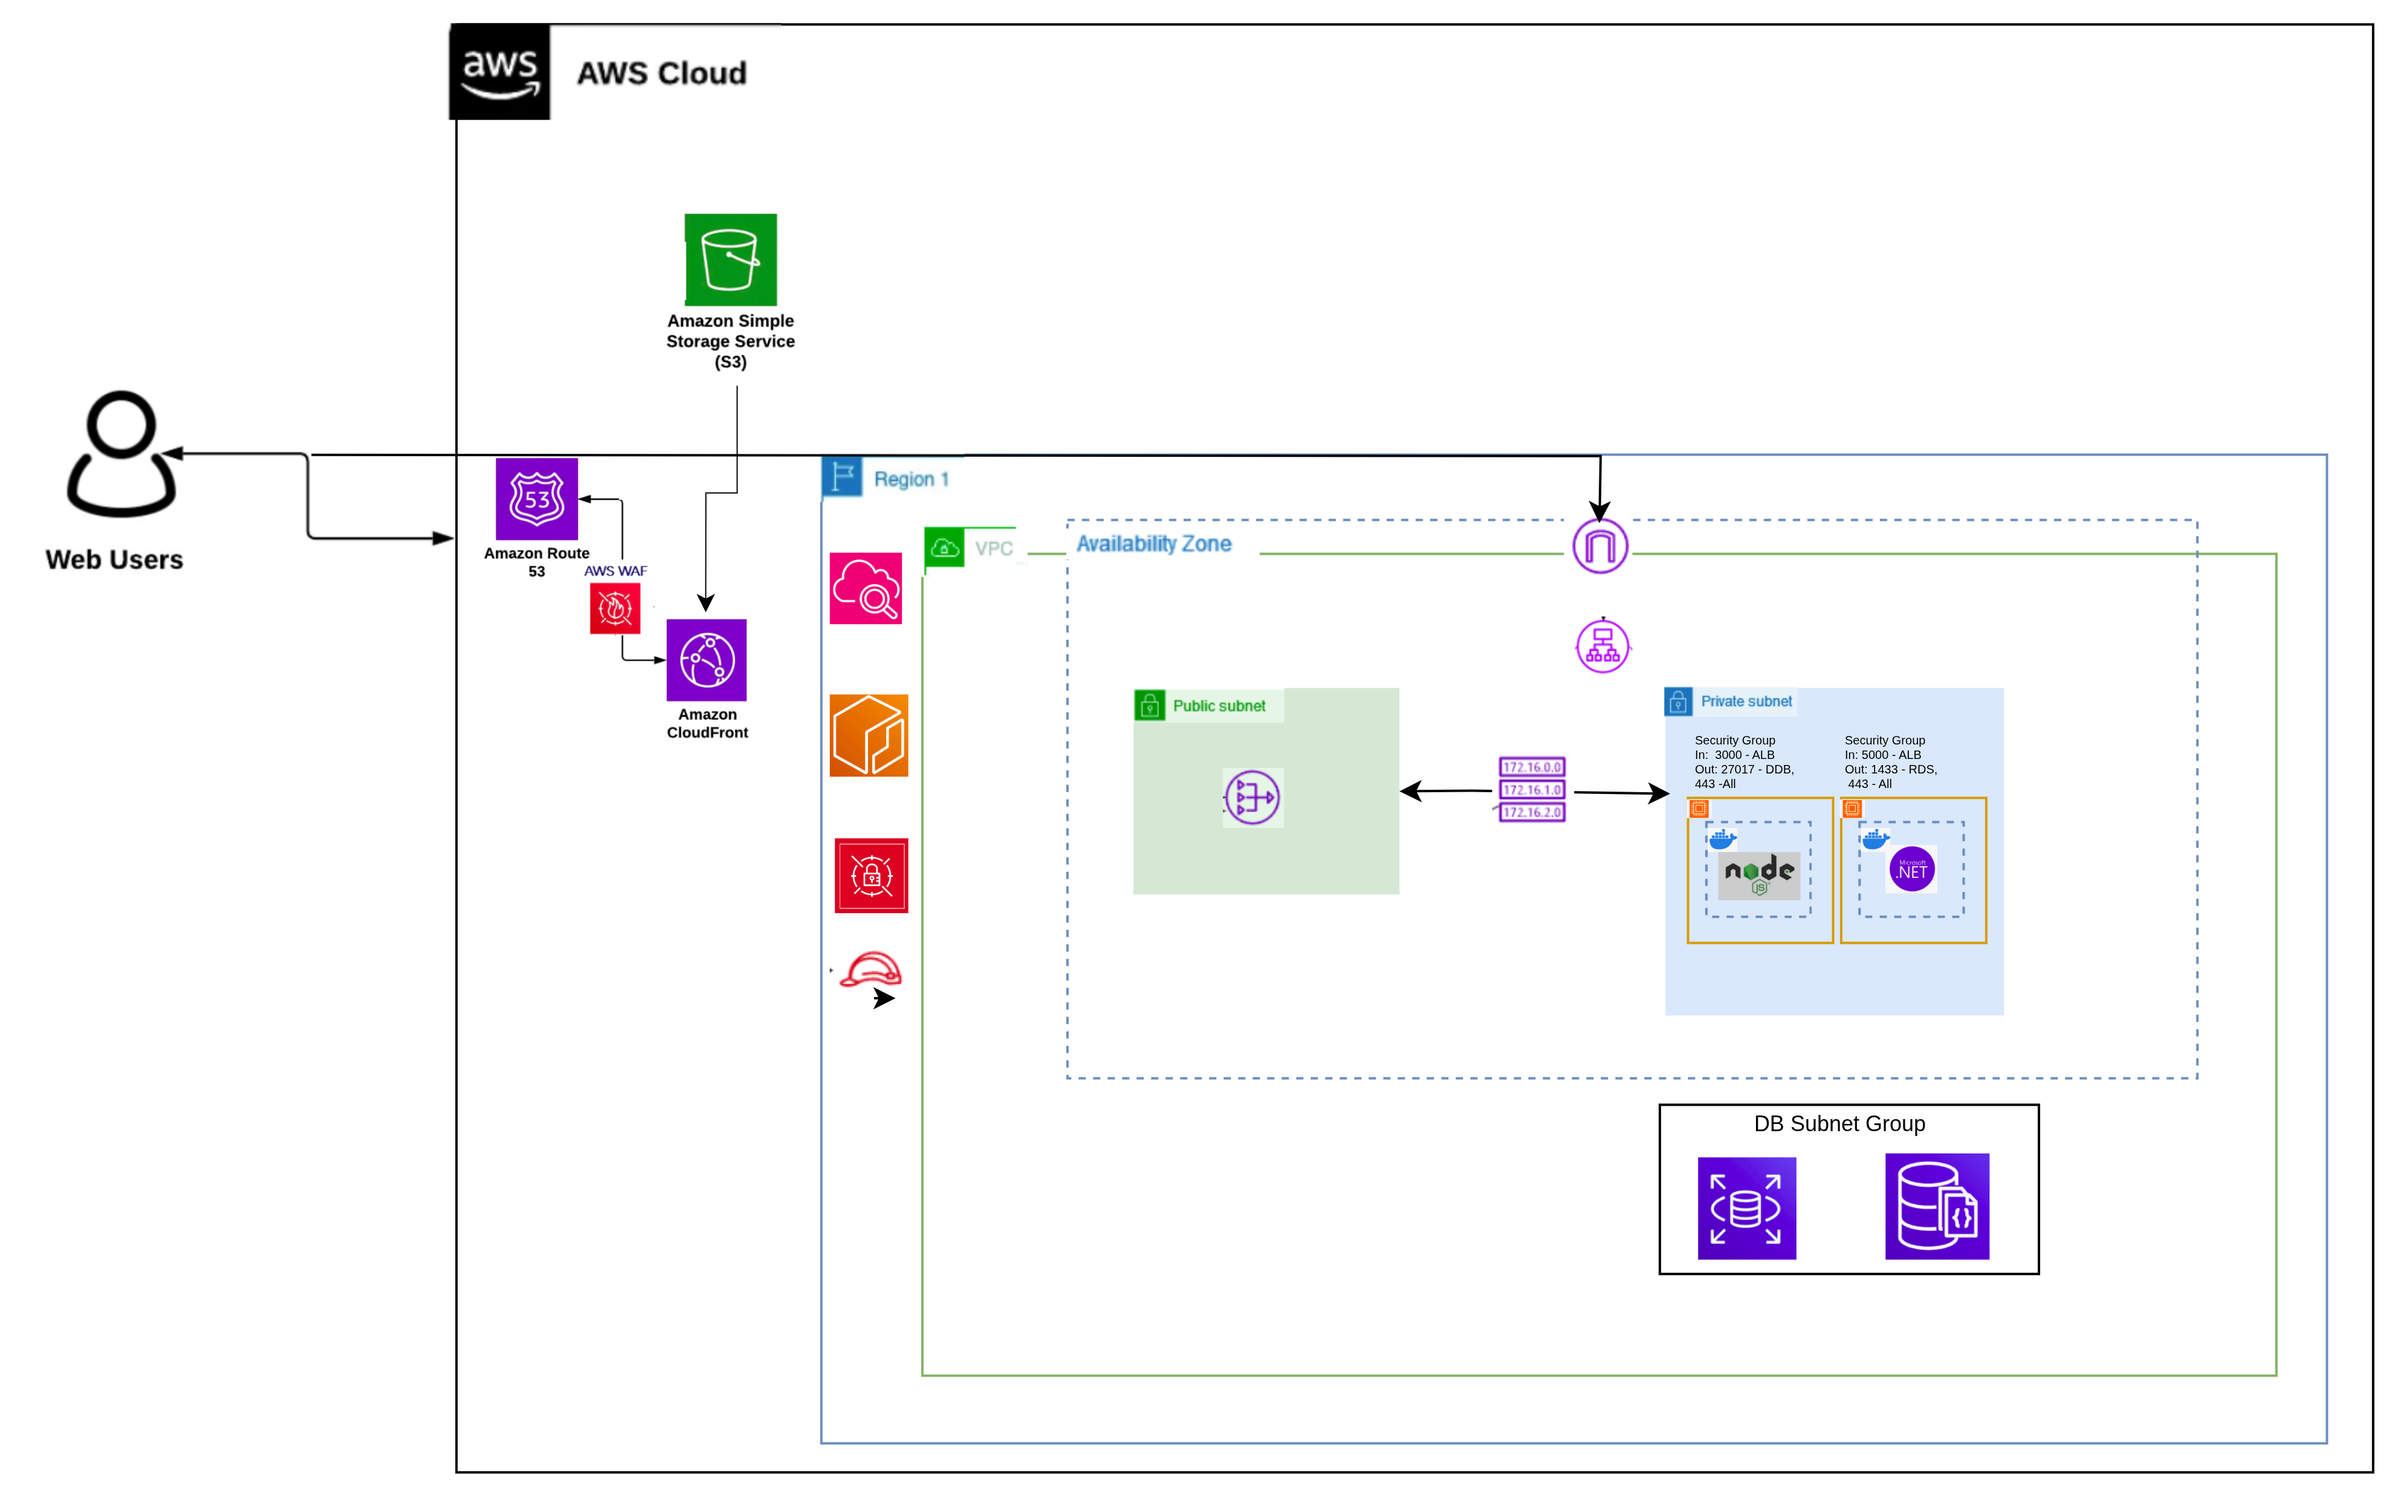
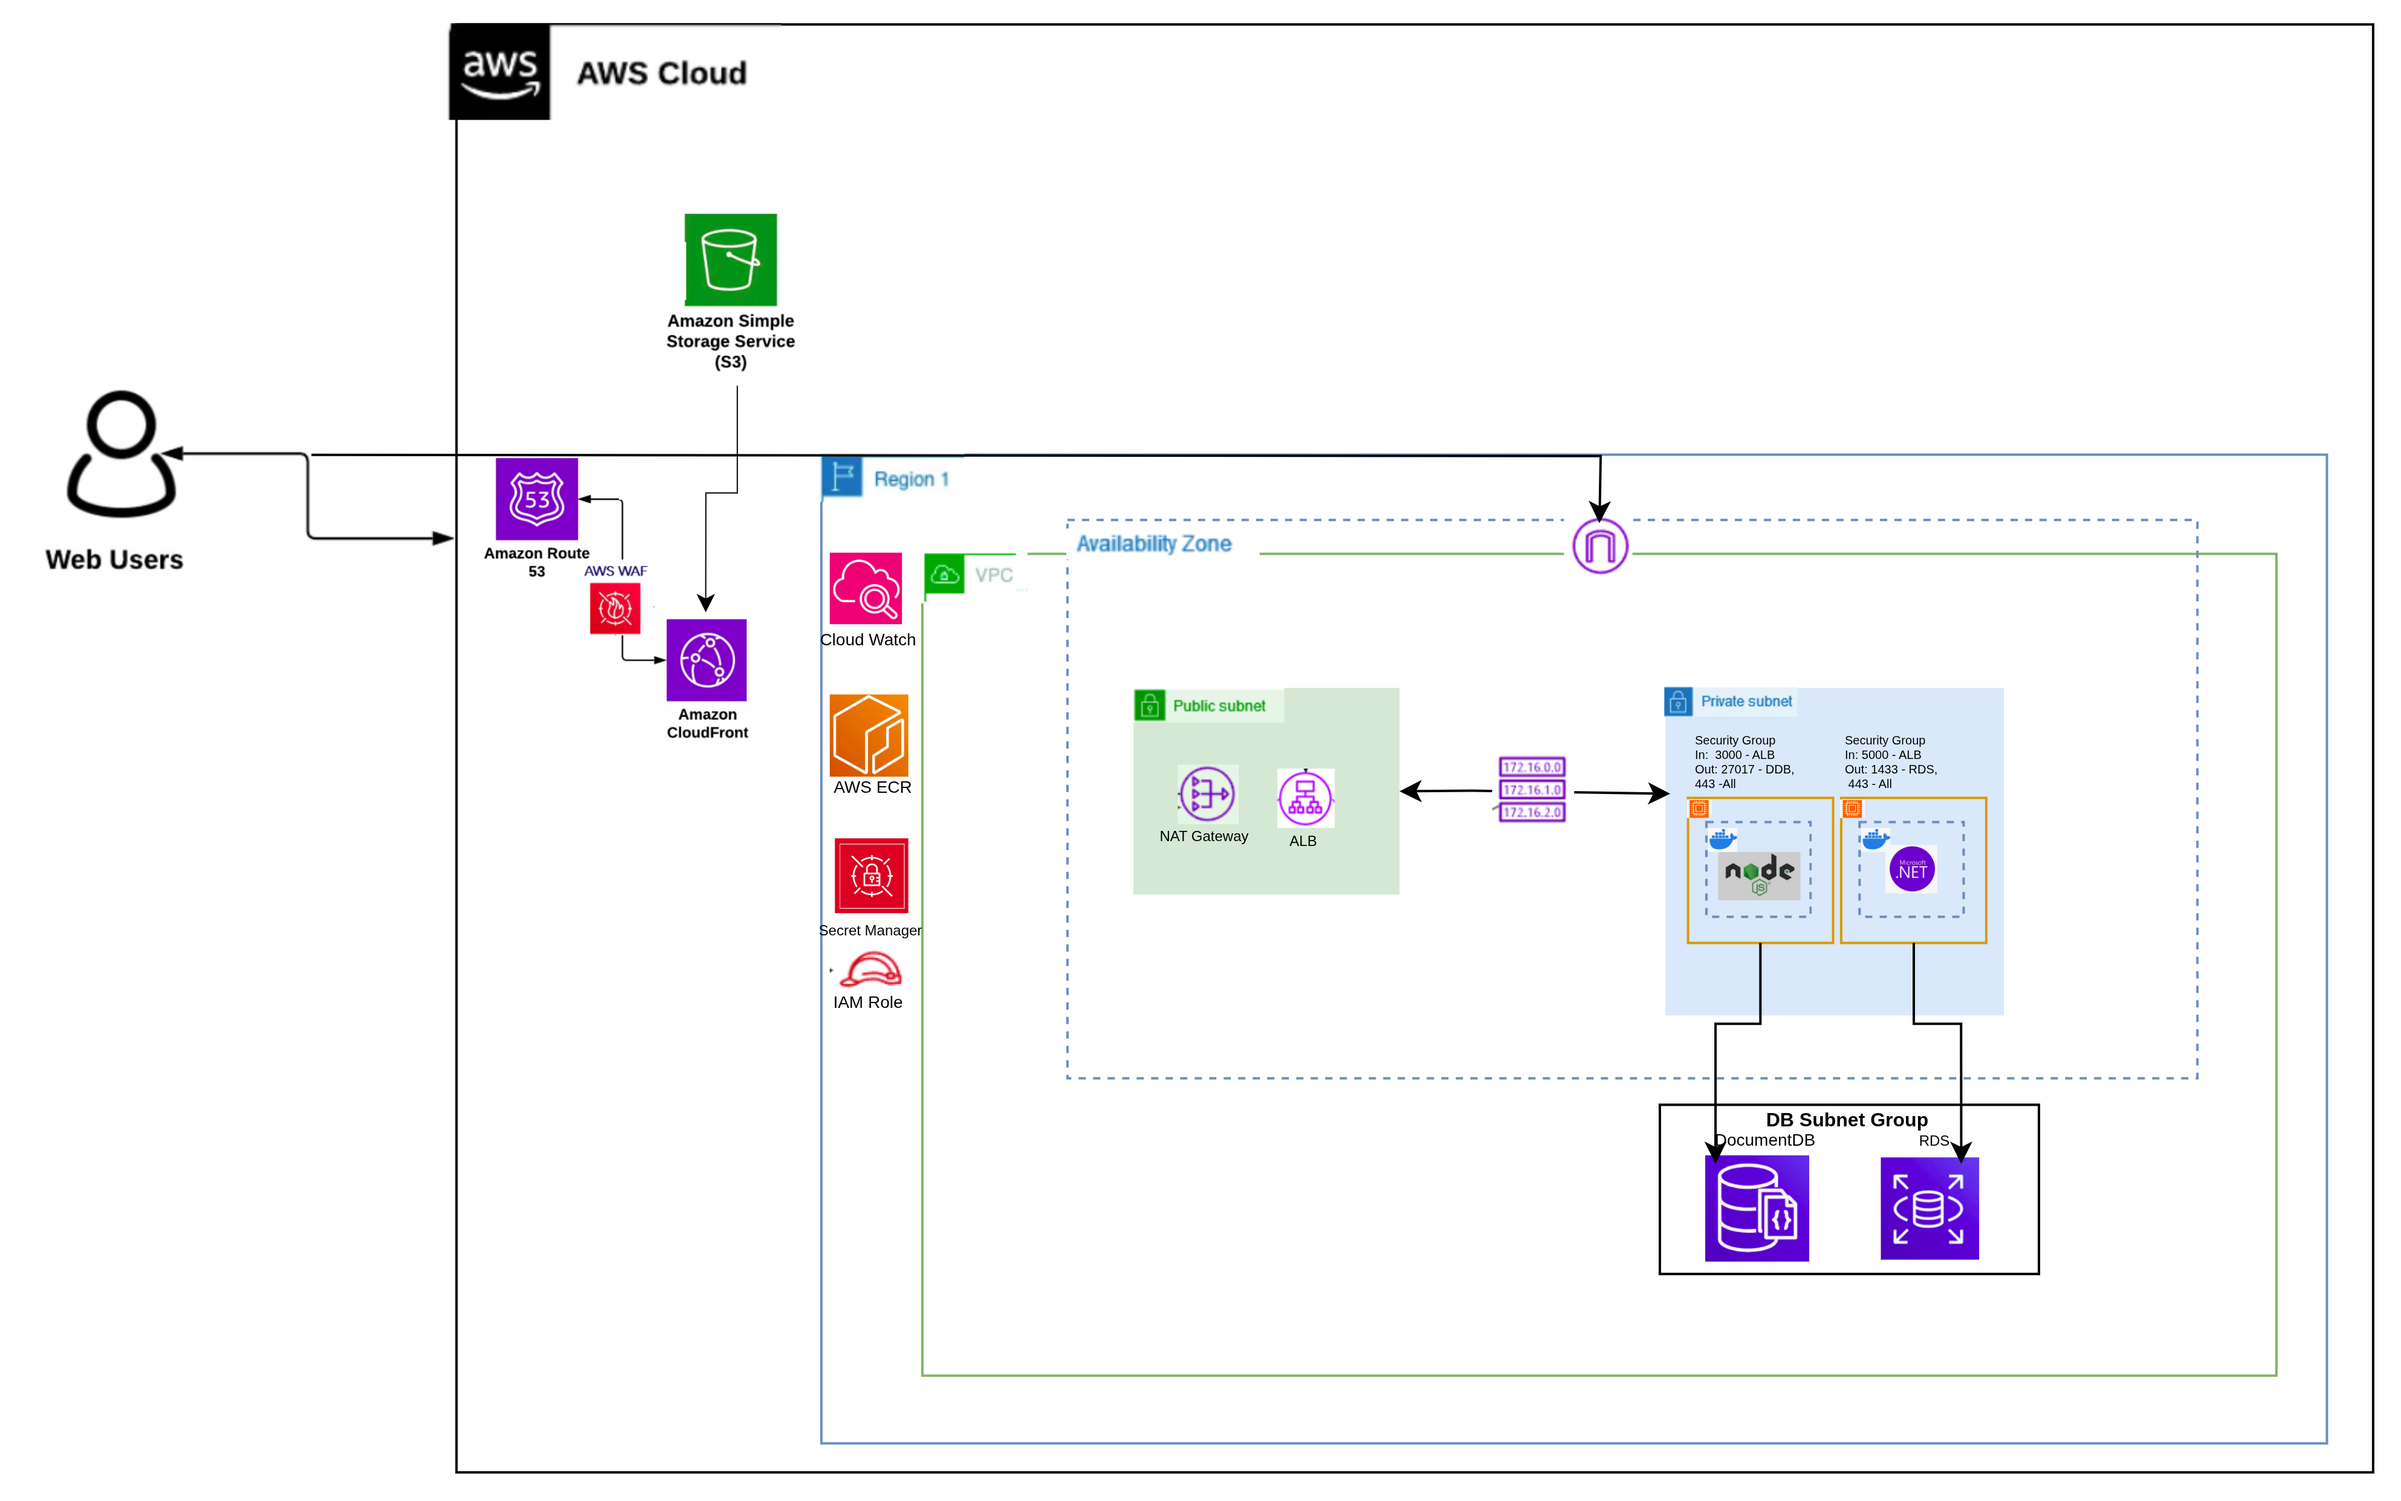
update: images replaced and README updated (removed appsettings.Development references)

diff --git a/client/src/pages/ShoppingPage.jsx b/client/src/pages/ShoppingPage.jsx
@@ -58,9 +58,7 @@ const ShoppingPage = ({ onNextStep, onGoToStep2 }) => {
   const handleAddToCart = () => {
     if (selectedProduct) {
       addToCart(selectedProduct, quantity);
-      // openCartDrawer();
-      // dispatch(clearSelectedProduct()); // לא צריך יותר
-      handleProductSelect(null); // איפוס מקומי
+      handleProductSelect(null); 
       showSuccessMessage('המוצר נוסף לעגלה בהצלחה');
     }
   };

diff --git a/README.md b/README.md
@@ -22,6 +22,8 @@ A smart shopping and order management system with a modern UI, ASP.NET server fo
 
 ---
 
+> **Note:** The following architecture and cloud deployment are described as a recommended professional solution. The system is designed and documented for such deployment, but is not actually deployed in the cloud.
+
 ## Architecture Diagram
 
 ```mermaid
@@ -62,7 +64,6 @@ graph TD
 │   ├── Data/
 │   ├── Models/
 │   ├── appsettings.json   # Server config (SQL Azure)
-│   ├── appsettings.Development.json # Server config for development
 │   └── ...
 ├── node-server/           # Node.js server (orders)
 │   ├── config/
@@ -90,7 +91,7 @@ graph TD
 > **Note:** If the servers or databases are not available, the system will automatically switch to offline/mock mode and use local fake data. You can still use and demo the client without backend connection.
 
 1. **Set Environment Variables:**
-   - Update `dotnet-server/appsettings.json` and `appsettings.Development.json` for SQL Azure connection.
+   - Update `dotnet-server/appsettings.json` for SQL Azure connection.
    - Update `node-server/.env` for MongoDB Atlas URI and secrets.
 
 2. **Install Dependencies:**
@@ -125,8 +126,8 @@ graph TD
     - `PORT` – Port for running the server
     - `CLIENT_URL` – Client URL for CORS
 - **ASP.NET Server:**
-  - `dotnet-server/appsettings.json` & `appsettings.Development.json` – SQL Azure connection string and logging
-  - `dotnet-server/appsettings.json.example` & `appsettings.Development.json.example` – Example files. Copy to the same file names and fill in:
+  - `dotnet-server/appsettings.json` – SQL Azure connection string and logging
+  - `dotnet-server/appsettings.json.example` – Example file. Copy to the same file name and fill in:
     - `DefaultConnection` – SQL Server connection string (server, database, user, password)
 
 ---
@@ -255,9 +256,19 @@ Built with **Material-UI (MUI)**, it leverages responsive design principles usin
 
 ---
 
+### AWS Architecture Diagram
+
+![AWS Architecture Diagram](client/screenshots/aws-architecture.png)
+
+---
 ## AWS Cloud Deployment
 
-The system is deployed on AWS using a professional architecture, ensuring security, high performance, and high availability.
+In a production cloud environment, both databases are designed to use fully managed AWS services:
+- **AWS RDS** for SQL Server (instead of Azure SQL, the system is designed for AWS RDS)
+- **AWS DocumentDB** for MongoDB (instead of MongoDB Atlas, the system is designed for AWS DocumentDB)
+This approach leverages managed services to provide flexibility, scalability, reliability, and reduced operational overhead.
+
+The system is deployed on AWS using a professional architecture, ensuring security, high performance, and high availability. This is the recommended way to deploy such applications in production environments.
 
 ### Main Cloud Components
 
@@ -266,8 +277,7 @@ The system is deployed on AWS using a professional architecture, ensuring securi
   - Route 53 – Professional DNS management
   - S3 – Frontend (React) file storage with automatic backup
 - 🔒 Network & Security Layer:
-  - VPC with Public/Private Subnets – Full separation between exposed and protected components
-  - Application Load Balancer – Smart load balancing with SSL termination
+  - **VPC with Public/Private Subnets** – Complete separation between public and private resources: EC2 application servers and APIs are deployed in Private Subnets (fully protected, with no direct internet access). The Application Load Balancer (ALB) resides in a Public Subnet, receives incoming traffic from the internet, and securely forwards it to the EC2 instances. When application servers need to access the internet (for updates, package downloads, etc.), this is done via a NAT Gateway, ensuring secure and controlled outbound connectivity.
   - Security Groups – Precise firewall rules for each component
   - NAT Gateway – Controlled internet access from the private network
 - ⚙ Application Layer:
@@ -279,7 +289,7 @@ The system is deployed on AWS using a professional architecture, ensuring securi
   - DocumentDB – MongoDB-compatible database with clustering
 - 📊 Monitoring & Security:
   - CloudWatch – Real-time monitoring, centralized logs, and alerts
-  - Secrets Manager – Secure management of passwords and keys
+  - Secrets Manager – Secure management of passwords and keys. All database credentials are securely stored in AWS Secrets Manager, allowing the servers to retrieve them safely at runtime without exposing them in code or configuration files.
   - IAM Roles – Precise permissions for each component without exposing credentials
   - VPC Endpoints – Private access to AWS services without traversing the public internet
 
@@ -292,12 +302,6 @@ The system is deployed on AWS using a professional architecture, ensuring securi
 - Automated Monitoring – Automatic monitoring and anomaly detection
 
 This architecture ensures high availability, automatic scalability, and enterprise-grade security while maintaining cost efficiency.
-
----
-
-### AWS Architecture Diagram
-
-![AWS Architecture Diagram](client/screenshots/aws-architecture.png)
 
 ---
 
